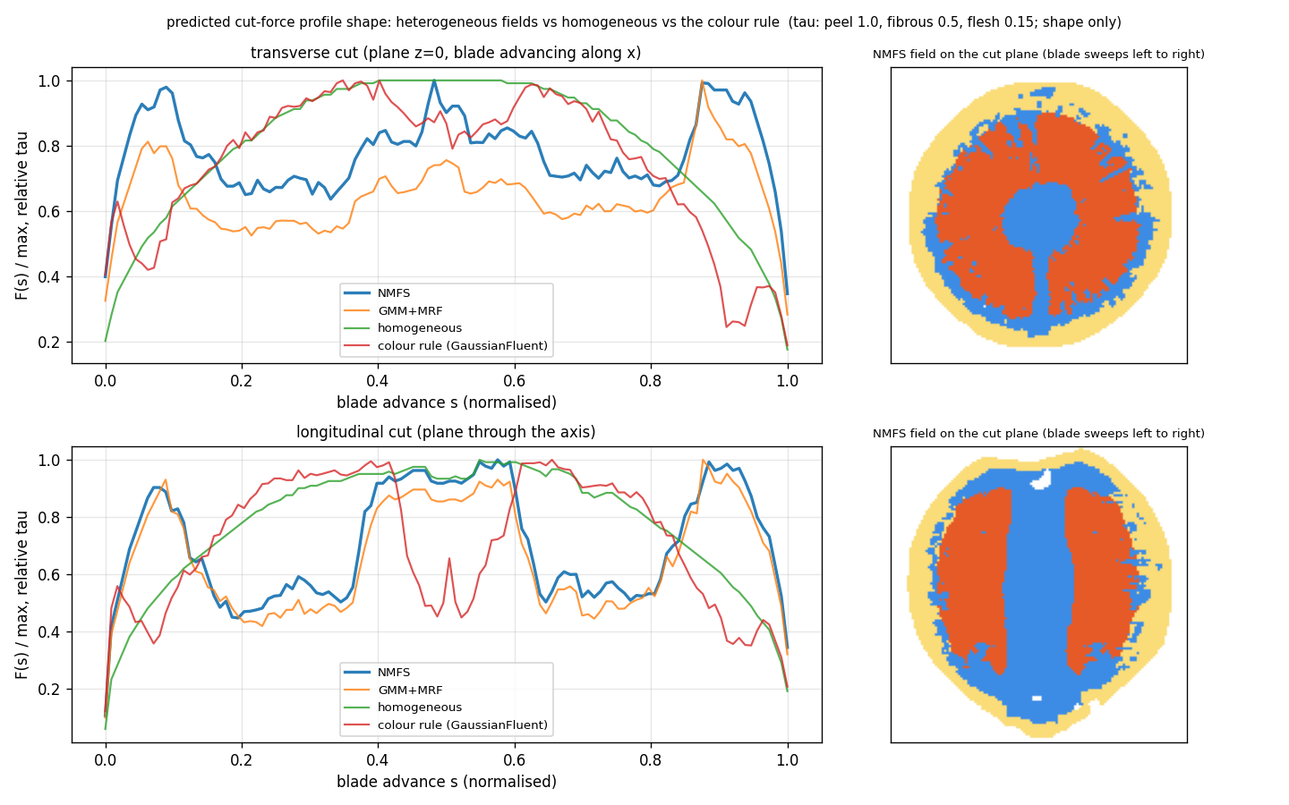
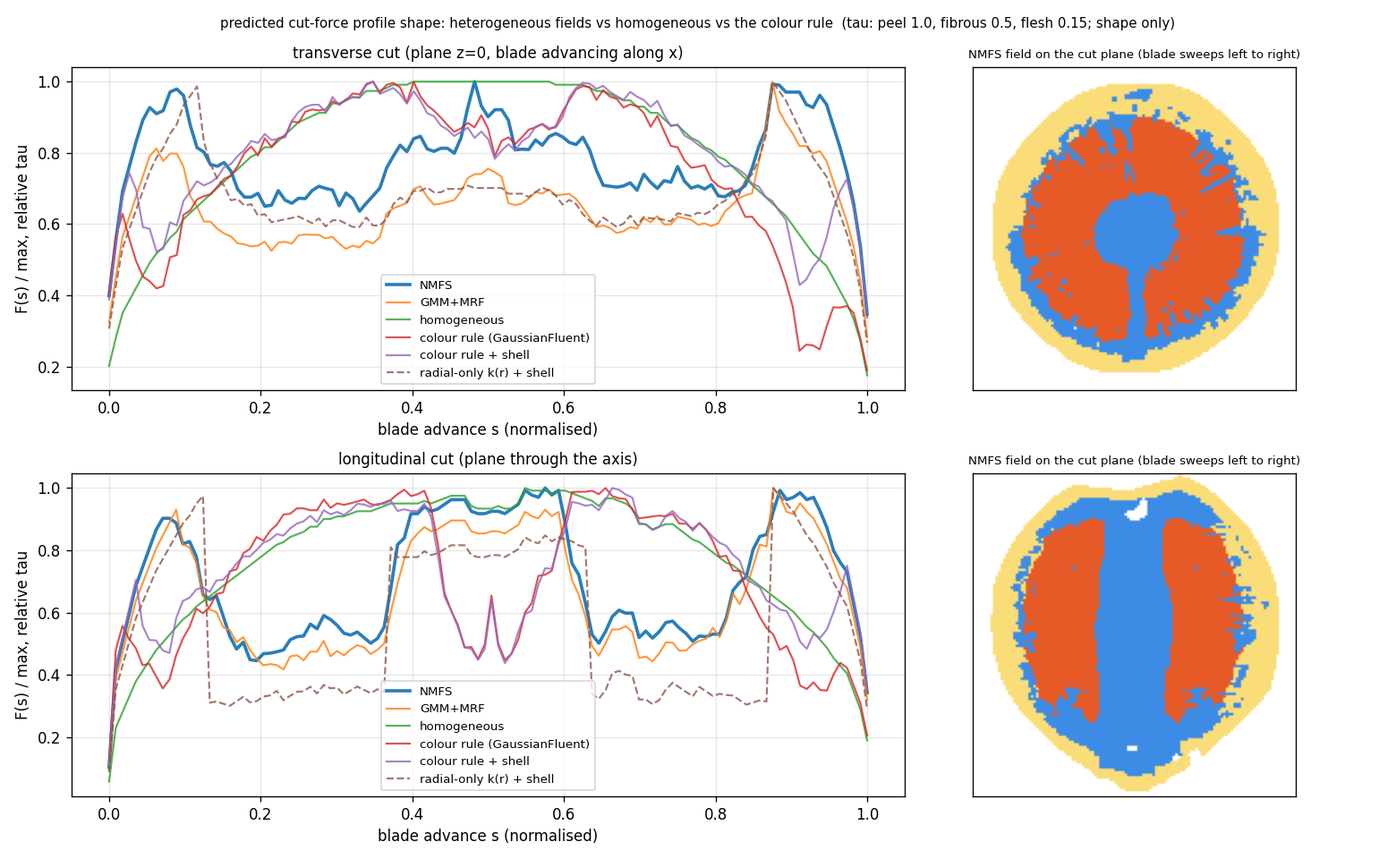
site: independent review section; colour+shell and radial-only baselines in the force comparison; wording fixes; K rule; plan sec 14

Changed region(s): [[0.0, 0.0, 0.9375, 0.9956], [0.6875, 0.5289, 0.9375, 0.9333]]

diff --git a/index.html b/index.html
@@ -38,7 +38,7 @@ a{color:var(--blue)}
 <h1>phy_inside: Heterogeneous Material Fields for Cuttable Generated Solids</h1>
 <p class="tag">從幾張切面照片，到皮、果肉、纖維各有各的物理的可切割數位孿生資產</p>
 <p class="authors">Gino (gino6178) · 2026</p>
-<p class="aff">Fruit3D Fusion → phy_inside · 所有數字為實際量測，未做的部分明寫</p>
+<p class="aff">Fruit3D Fusion → phy_inside · 所有數字來自實際執行；模擬輸出不是量測，E、ν、ρ、τ 為假設值；未做的部分明寫</p>
 <div class="btns">
 <a class="btn" href="analysis.html">完整分析（Analysis）</a>
 <a class="btn" href="https://github.com/gino6178/phy_inside">Code</a>
@@ -52,7 +52,7 @@ a{color:var(--blue)}
 
 <h2>Abstract</h2>
 <div class="abs">
-<p>生成的 3D 資產止於表面：image-to-3D 模型在外表面輸出完整 PBR 材質，內部生成方法只把體積填成顏色，物理感知的管線則給每個 part 一組均勻參數，於是<b>一顆橘子對所有現有方法而言都是單一物質</b>。我們把一個由少量切面照片合成的內部體積，變成異質、可模擬的實心體。材質清單在<b>真實切面照片</b>上學到（3+3 張，對六顆沒看過的橘子轉移一致性 0.93），經虛擬切片反投影成偽標籤；一個定義在圓柱格上的神經材質場（NMFS）在<b>沒有任何 3D 標籤</b>的情況下，以偽標籤交叉熵、兩族切面一致性、各向異性解剖先驗與夾雜物 head 學出每個 cell 的物質。每種物質綁定力學參數並<b>寫回資產的每個 voxel</b>，切割是格上的拓撲事件，碎片各自帶著材質。在同一顆橘子、同一 solver 上，異質場產生皮的進出雙峰切削力曲線，落地時整體變形較小、內部被皮屏蔽；按顏色指派材質的規則在橘子上找不到皮，因為外皮與果肉同色。</p>
+<p>生成的 3D 資產止於表面：image-to-3D 模型在外表面輸出完整 PBR 材質，內部生成方法只把體積填成顏色，物理感知的管線則給每個 part 一組均勻參數，於是<b>一顆橘子對所有現有方法而言都是單一物質</b>。我們把一個由少量切面照片合成的內部體積，變成異質、可模擬的實心體。材質清單在<b>真實切面照片</b>上學到（3+3 張，對六張 held-out 照片的分群一致性 0.93（兩個 GMM 的 Hungarian 一致性，不是對標注的準確度）），經虛擬切片反投影成偽標籤；一個定義在圓柱格上的神經材質場（NMFS）在<b>沒有任何 3D 標籤</b>的情況下，以偽標籤交叉熵、兩族切面一致性、各向異性解剖先驗與夾雜物 head 學出每個 cell 的物質。每種物質綁定力學參數並<b>寫回資產的每個 voxel</b>，切割是格上的拓撲事件，碎片各自帶著材質。在同一顆橘子、同一 solver 上，異質場產生皮的進出雙峰切削力曲線，落地時整體變形較小、內部被皮屏蔽；按顏色指派材質的規則在橘子上找不到皮，因為外皮與果肉同色。</p>
 <p style="color:var(--muted);font-size:15px">Generated 3D assets stop at the surface. We turn a volumetric interior synthesised from a few cross-section photographs into a heterogeneous, simulation-ready solid: the material inventory is learned on real cut photographs, back-projected as pseudo-labels, and a neural material field on the cylindrical lattice is trained with no 3D labels. Every voxel of the asset carries its substance, so a planar cut is a topological event and every fragment keeps its material.</p>
 </div>
 
@@ -121,7 +121,7 @@ a{color:var(--blue)}
 <div class="tabs"><button class="on" data-t="cut3">三刀六塊</button><button data-t="fall">一刀後從高處落下</button><button data-t="force">切削力曲線</button><button data-t="drop">整顆落地</button></div>
 <div id="tab-cut3" class="fig"><img src="assets/montage_cut3.gif" alt="cut3"><p class="cap">NMFS · NMFS 材質視圖 · 同質 · 顏色規則。對手的共同缺點是只有一種材質：切到哪裡力曲線都是同一條弧，切下去沒有軟硬之分。材質視圖顯示皮、果肉、纖維各自跟著碎片走。</p></div>
 <div id="tab-fall" class="fig" hidden><img src="assets/montage_fall.gif" alt="fall"><p class="cap">切成兩半後從 1.3 的高度落下：NMFS · 材質視圖 · 同質。</p></div>
-<div id="tab-force" class="fig" hidden><img src="assets/cutforce_profiles.png" alt="force"><p class="cap">四種材質場的切削力曲線形狀（相對 τ：皮 1.0、纖維 0.5、果肉 0.15）。NMFS 與 MRF 有皮的進出雙峰（0.98 / 0.85）與低的果肉平台；同質是弦長的弧；<b>顏色規則在橘子上找不到皮</b>，外皮與果肉同色，曲線幾乎就是同質的弧。這是對場的確定性積分，不依賴模擬。</p></div>
+<div id="tab-force" class="fig" hidden><img src="assets/cutforce_profiles.png" alt="force"><p class="cap">六種材質場的切削力曲線形狀（相對 τ：皮 1.0、纖維 0.5、果肉 0.15），對場的確定性積分。橫切的進出峰 / 果肉平台：NMFS 0.98 / 0.70，GMM+MRF 0.85 / 0.59，<b>radial-only k(r)+shell 0.91 / 0.62</b>，colour+shell 0.74 / 0.94，colour-only 0.63 / 0.92，同質 0.60 / 0.93。兩個誠實的讀法：(1) 顏色規則加上同一套 shell 規則後拿回一部分皮峰（0.63→0.74），但仍遠低於 NMFS，因為皮的白絡帶不是 shell；(2) <b>一個只看半徑的分層規則就重現了 NMFS 大部分的曲線形狀</b>，橘子的材質幾乎是半徑的函數，這張圖分不出「學到的材質場」與「半徑分層」。差別要在半徑不夠用的地方（囊瓣膜、西瓜籽、麵包的肉桂捲）和 3D 外部參照上證明。</p></div>
 <div id="tab-drop" class="fig" hidden><img src="assets/drop_compare.png" alt="drop"><p class="cap">整顆不切的落地（FruitNinja lattice）：NMFS 第一次落地皮的最小伸展比 0.973 對同質 0.951，內部 0.979 對 0.958；硬皮讓整顆變形少一半、彈得更快，內部被皮屏蔽。</p></div>
 <div class="note"><b>怎麼讀動畫。</b>差異是定性的。六塊碎片翻滾是混沌的：同樣物理跑兩次（第一、二欄）的碎片姿態就不同，接觸數差四倍。所以動畫不抽數字；定量的是切削力曲線（確定性）與不翻滾的落地。之前報過的碎片接觸數已撤回。</div>
 
@@ -134,6 +134,19 @@ a{color:var(--blue)}
 <tr><td>光學估計</td><td>RGB↔X、SuperMat、IntrinsicAnything</td><td>逐像素，無每類約束</td><td>同一面漫射→閃光的重渲染</td><td>濕高光被烘進 albedo</td></tr>
 </table>
 <p class="cap">可守的宣稱只有兩層：part 內的異質性（現有方法沒有一個讓 part 內部變化），以及監督來自內部觀測。不宣稱逐 voxel 材質是新的（VoMP、Pixie 都輸出逐 voxel）、不宣稱絕對模數、不宣稱輸入未標定。細節與每篇的粒度查證見<a href="analysis.html#pos">完整分析</a>。</p>
+
+<h2>Independent review <small>2026-09-05，一個沒有參與專案的 CVPR 審稿 agent 讀完頁面、分析、計畫與程式碼後的結論；已證實的部分照單全收</small></h2>
+<table>
+<tr><th>發現</th><th>證實？</th><th>處置</th></tr>
+<tr><td>顏色規則 baseline 沒有套 shell 規則，NMFS 的皮峰有 73% 來自 cell_level 規則而非學習</td><td class="ok">證實（程式碼）</td><td>加入 colour+shell 與 radial-only 兩個 baseline，重算力曲線（上方分頁）</td></tr>
+<tr><td>K 選擇碼裡有一個 K=4 的特例，與「一個程式不調參」矛盾；K 從 3 起跳測不到清單=1</td><td class="ok">證實（程式碼）</td><td>改為規則：最佳轉移，0.02 內取較大 K；KS 從 2 起</td></tr>
+<tr><td>NMFS 的三個指標循環：非信心 cell 的參照是同一個分類器；膜保留與訓練目標同一量；兩 head 共用輸出層</td><td class="ok">證實（程式碼）</td><td>新增去循環實驗：只用一族的偽標籤訓練、對另一族的分類器評估（進行中）；0.001 與膜保留改為診斷</td></tr>
+<tr><td>半徑先驗進了四次，「學到解剖」可能只是「學到 r」</td><td class="ok">證實（radial-only 曲線接近 NMFS）</td><td>如實寫在力曲線說明；差異要在非徑向結構與 3D 外部參照上證明</td></tr>
+<tr><td>0.93 是兩個 GMM 的一致性不是準確度；「所有數字為實際量測」不成立</td><td class="ok">證實</td><td>全站措辭已改</td></tr>
+<tr><td>E4（同一切面重光照）不測 3D 場；放棄荷重元換成不測 3D 的指標是策略錯誤；建議 serial-slice：一顆真橘子切 8–12 片逐片拍照對齊，就是一個真實個體的 3D 標籤堆疊，零硬體</td><td>判斷</td><td>採納 serial-slice 進計畫（E2c）；荷重元是否重新納入由作者決定</td></tr>
+<tr><td>n=1 物件、無 3D 真值、對手未真跑、消融未做</td><td class="ok">證實</td><td>與作者自己的缺口清單一致，見計畫 §14</td></tr>
+<tr><td>評分：Overall 2 / 5（weak reject），Confidence 4；最能改變評分的三件事：radial-only + 人工標注 mIoU（六物件）、一個真實個體的 3D 真值、對稱的對手</td><td>—</td><td>—</td></tr>
+</table>
 
 <h2>Limitations</h2>
 <ul>

diff --git a/analysis.html b/analysis.html
@@ -29,7 +29,7 @@ footer{margin-top:60px;color:var(--muted);font-size:13.5px;border-top:1px solid 
 <header>
 <div class="sub"><a href="index.html">← 回 project page</a></div>
 <h1>phy_inside：從切面照片到可物理互動的內部材質場 — 完整分析</h1>
-<div class="sub">專案分析　·　2026-09-04　·　程式與圖表全部來自本 repo，數字均為實際量測，未量的地方明寫</div>
+<div class="sub">專案分析　·　2026-09-04　·　程式與圖表全部來自本 repo；數字來自實際執行，模擬輸出不是量測，E、ν、ρ、τ 為假設值；未做的地方明寫</div>
 </header>
 
 <p class="lead">生成的 3D 資產只有表面：image-to-3D 模型在外表面輸出完整 PBR 材質，內部生成方法把體積填成顏色而已，物理感知的管線則每個 part 一組均勻參數。對所有現有方法而言，<b>一顆橘子是一個 part、一種物質</b>。本專案把一個由少量切面照片合成的內部體積，分解成一個異質、可模擬的材質場：皮、果肉、纖維組織各有各的力學，切開的面可重光照，刀鋒切過時的阻力隨材質變化。</p>
@@ -39,8 +39,8 @@ footer{margin-top:60px;color:var(--muted);font-size:13.5px;border-top:1px solid 
 </ol>
 
 <h2 id="abs">摘要</h2>
-<p><b>中文。</b>生成的 3D 資產止於表面：image-to-3D 模型在外表面輸出完整 PBR 材質，內部生成方法只把體積填成顏色，物理感知的管線則給每個 part 一組均勻參數，於是一顆橘子對所有現有方法而言都是單一物質。我們把一個由少量切面照片合成的內部體積，變成異質、可模擬的實心體。材質清單在<b>真實切面照片</b>上學到（三加三張，對六顆沒看過的橘子轉移一致性 0.93），經虛擬切片反投影成偽標籤；一個定義在圓柱格上的神經材質場（NMFS）在<b>沒有任何 3D 標籤</b>的情況下，以偽標籤交叉熵、兩族切面一致性、各向異性幾何先驗與夾雜物 head 學出每個 cell 的物質類別。每種物質綁定力學參數並<b>寫回資產的每個 voxel</b>，切割是格上的拓撲事件，碎片各自帶著材質。在同一顆橘子、同一 solver 上，異質場產生皮的進出雙峰切削力曲線，落地時整體變形較小、內部被皮屏蔽；按顏色指派材質的規則在橘子上找不到皮，因為外皮與果肉同色。</p>
-<p><b>English.</b> Generated 3D assets stop at the surface: image-to-3D models emit full PBR materials on the exterior, interior-generation methods fill the volume with colour and nothing else, and physics-aware pipelines assign one material per part, so that to all of them an orange is a single substance. We turn a volumetric interior synthesised from a few cross-section photographs into a heterogeneous, simulation-ready solid. The material inventory is learned on <b>real cut photographs</b> (3+3, transferring to six unseen oranges at 0.93 agreement) and back-projected into the volume as pseudo-labels; a neural material field on the cylindrical lattice (NMFS) is trained with <b>no 3D labels</b> from pseudo-label cross-entropy, cross-family consistency, an anisotropic anatomical prior and an inclusion head. Each substance is bound to mechanical parameters and <b>written into every voxel of the asset</b>, so a planar cut is a topological event on the lattice and every fragment carries its material. On the same orange and the same solver, the heterogeneous field yields the peel entry/exit spikes in the cut-force profile, and on impact a smaller overall deformation with the interior shielded by the shell; colour-based assignment finds no peel on the orange at all, because skin and flesh share a colour.</p>
+<p><b>中文。</b>生成的 3D 資產止於表面：image-to-3D 模型在外表面輸出完整 PBR 材質，內部生成方法只把體積填成顏色，物理感知的管線則給每個 part 一組均勻參數，於是一顆橘子對所有現有方法而言都是單一物質。我們把一個由少量切面照片合成的內部體積，變成異質、可模擬的實心體。材質清單在<b>真實切面照片</b>上學到（三加三張，對六張 held-out 照片的分群一致性 0.93（兩個 GMM 的 Hungarian 一致性，不是對標注的準確度）），經虛擬切片反投影成偽標籤；一個定義在圓柱格上的神經材質場（NMFS）在<b>沒有任何 3D 標籤</b>的情況下，以偽標籤交叉熵、兩族切面一致性、各向異性幾何先驗與夾雜物 head 學出每個 cell 的物質類別。每種物質綁定力學參數並<b>寫回資產的每個 voxel</b>，切割是格上的拓撲事件，碎片各自帶著材質。在同一顆橘子、同一 solver 上，異質場產生皮的進出雙峰切削力曲線，落地時整體變形較小、內部被皮屏蔽；按顏色指派材質的規則在橘子上找不到皮，因為外皮與果肉同色。</p>
+<p><b>English.</b> Generated 3D assets stop at the surface: image-to-3D models emit full PBR materials on the exterior, interior-generation methods fill the volume with colour and nothing else, and physics-aware pipelines assign one material per part, so that to all of them an orange is a single substance. We turn a volumetric interior synthesised from a few cross-section photographs into a heterogeneous, simulation-ready solid. The material inventory is learned on <b>real cut photographs</b> (3+3, with 0.93 clustering agreement on six held-out photographs (Hungarian agreement of two GMMs, not accuracy against annotation)) and back-projected into the volume as pseudo-labels; a neural material field on the cylindrical lattice (NMFS) is trained with <b>no 3D labels</b> from pseudo-label cross-entropy, cross-family consistency, an anisotropic anatomical prior and an inclusion head. Each substance is bound to mechanical parameters and <b>written into every voxel of the asset</b>, so a planar cut is a topological event on the lattice and every fragment carries its material. On the same orange and the same solver, the heterogeneous field yields the peel entry/exit spikes in the cut-force profile, and on impact a smaller overall deformation with the interior shielded by the shell; colour-based assignment finds no peel on the orange at all, because skin and flesh share a colour.</p>
 
 <h2 id="pos">1. 定位與缺口</h2>
 <p>逐篇查證最近的方法在材質上的粒度。論文的新穎性主張就落在這張表上。</p>

diff --git a/code/stage4_cutforce.py b/code/stage4_cutforce.py
@@ -36,6 +36,16 @@ km = KMeans(3, n_init=4, random_state=0).fit(lab[np.random.default_rng(0).choice
 rv = rad[occ]; order = np.argsort([float(rv[cl == k].mean()) for k in range(3)]); remap = torch.zeros(3, dtype=torch.long, device=dv); remap[torch.from_numpy(order).to(dv)] = torch.arange(3, device=dv)
 Lcol = torch.full_like(fields['NMFS'], -1); Lcol[occ] = remap[cl]; fields['colour rule (GaussianFluent)'] = Lcol
 print('colour-rule class fractions (by radius order: inner, mid, outer):', (torch.bincount(remap[cl], minlength=3).float() / occ.sum()).cpu().numpy().round(3), flush=True)
+# (b) the same colour rule PLUS our shell rule -- the symmetric baseline (the reviewer's W2)
+Lcs = Lcol.clone(); Lcs[shell] = PEEL; fields['colour rule + shell'] = Lcs
+# (c) radial-only: k as a function of r alone, thresholds from the photo classifier's radial class histogram (no features at all)
+d = np.load(NMFS); ridx = d['idx'][:, 0].astype(int); labs = d['labels'].astype(int); NRc = int(d['shape'][0])
+hist = np.zeros((NRc, 3))
+for r_, l_ in zip(ridx, labs): hist[r_, l_] += 1
+kr = torch.from_numpy(hist.argmax(1)).to(dv)                       # most frequent class at each radius
+ri_all = (rad / E * NRc - 0.5).round().long().clamp(0, NRc - 1)
+Lr = torch.full_like(fields['NMFS'], -1); Lr[occ] = kr[ri_all[occ]]; Lr[shell] = PEEL; fields['radial-only k(r) + shell'] = Lr
+print('radial-only class fractions:', (torch.bincount(Lr[occ], minlength=3).float() / occ.sum()).cpu().numpy().round(3), flush=True)
 
 def tau_of(L):
     T = torch.zeros_like(L, dtype=torch.float32)
@@ -52,13 +62,13 @@ def profile(L, cut):
 cuts = {'transverse cut (plane z=0, blade advancing along x)': ('trans', 0), 'longitudinal cut (plane through the axis)': ('long', 0)}
 res = {}
 import matplotlib; matplotlib.use('Agg'); import matplotlib.pyplot as plt
-fig, ax = plt.subplots(2, 2, figsize=(12, 7.5), gridspec_kw={'width_ratios': [1.6, 1]})
+fig, ax = plt.subplots(2, 2, figsize=(13, 8), gridspec_kw={'width_ratios': [1.7, 1]})
 cmap = np.array([[255, 255, 255], [60, 140, 230], [230, 90, 40], [250, 220, 120]], np.uint8)
 for i, (title, cut) in enumerate(cuts.items()):
     res[title] = {}
     for name, L in fields.items():
         f = profile(L, cut); s = np.nonzero(f)[0]; f = f[s.min():s.max() + 1]; f = f / f.max(); res[title][name] = f.tolist()
-        ax[i, 0].plot(np.linspace(0, 1, len(f)), f, label=name, lw=2 if name == 'NMFS' else 1.3, alpha=0.95 if name == 'NMFS' else 0.8)
+        ax[i, 0].plot(np.linspace(0, 1, len(f)), f, label=name, lw=2.2 if name == 'NMFS' else 1.3, alpha=0.95 if name == 'NMFS' else 0.8, ls='--' if 'radial' in name else '-')
     ax[i, 0].set_title(title, fontsize=10); ax[i, 0].set_xlabel('blade advance s (normalised)'); ax[i, 0].set_ylabel('F(s) / max, relative tau'); ax[i, 0].legend(fontsize=8); ax[i, 0].grid(alpha=0.3)
     AX = vol.AXD; rest = [d for d in range(3) if d != AX]; i0 = int(round(vol.c))
     Lp = fields['NMFS'].select(AX, i0) if cut[0] == 'trans' else fields['NMFS'].select(rest[1], i0)

diff --git a/code/nmfs.py b/code/nmfs.py
@@ -14,7 +14,10 @@ CONF = 0.8; R_CORE = 0.25; FIBRE, FLESH, PEEL = 0, 1, 2
 d = np.load(CELLS); idx = torch.from_numpy(d['idx'].astype(np.int64)).to(dv); NR, NPHI, NZ = [int(x) for x in d['shape']]; M = len(idx)
 Ft = torch.from_numpy(d['Ft']).to(dv).float(); Fl = torch.from_numpy(d['Fl']).to(dv).float(); Fa = torch.from_numpy(d['F']).to(dv).float()
 mu, sd = Fa.mean(0), Fa.std(0) + 1e-6; Ft = (Ft - mu) / sd; Fl = (Fl - mu) / sd; Fa = (Fa - mu) / sd; NF = Ft.shape[1]
-p = np.load(PHOTO); P0 = torch.from_numpy(p['P'].astype(np.float32)).to(dv); K = int(p['K']); lab0 = P0.argmax(1); conf = P0.max(1).values > CONF
+p = np.load(PHOTO); K = int(p['K']); PSEUDO_FAM = os.environ.get('PSEUDO_FAM', 'both')     # 'trans' | 'long' | 'both'
+_src = {'both': 'P', 'trans': 'Pt', 'long': 'Pl'}[PSEUDO_FAM]
+P0 = torch.from_numpy(p[_src].astype(np.float32)).to(dv); lab0 = P0.argmax(1); conf = P0.max(1).values > CONF
+print(f'pseudo-labels from: {PSEUDO_FAM} ({_src})', flush=True)
 rn = (idx[:, 0].float() + 0.5) / NR; zn = (idx[:, 2].float() + 0.5) / NZ * 2 - 1; phn = idx[:, 1].float() / NPHI * 2 * math.pi
 incl_t = ((lab0 == FIBRE) & (rn > R_CORE)).float()                       # thin fibrous tissue outside the core: membranes / albedo
 print(f'{M:,} cells, K={K}, confident pseudo-labels {float(conf.float().mean()):.3f}, inclusion targets {float(incl_t.mean()):.3f}', flush=True)
@@ -107,7 +110,13 @@ def seam(l):
         ch = ((g[:, 1:] != g[:, :-1]) & v[:, 1:] & v[:, :-1]).float().sum() + ((g[1:] != g[:-1]) & v[1:] & v[:-1]).float().sum(); out[name] = float(ch / v.float().sum().clamp_min(1))
     return out
 nc = ~conf
-metrics = dict(K=K, steps=STEPS, w_r=W_R, w_t=W_T,
+_other = {'trans': 'Pl', 'long': 'Pt', 'both': None}[PSEUDO_FAM]
+if _other is not None:
+    Po = torch.from_numpy(p[_other].astype(np.float32)).to(dv); oc = Po.max(1).values > CONF; ol = Po.argmax(1)
+    heldout_family = dict(family=_other, agree_nmfs=float((lab_final[oc] == ol[oc]).float().mean()), agree_mrf=float((mrf[oc] == ol[oc]).float().mean()), agree_pseudo_source=float((lab0[oc] == ol[oc]).float().mean()), n=int(oc.sum()))
+    print('HELD-OUT FAMILY', json.dumps(heldout_family), flush=True)
+else: heldout_family = None
+metrics = dict(K=K, steps=STEPS, w_r=W_R, w_t=W_T, pseudo_fam=PSEUDO_FAM, heldout_family=heldout_family, confident_fraction=float(conf.float().mean()),
     cross_disagree=dict(raw_classifier=float((Pt0 != Pl0).float().mean()), nmfs=float((lt != ll).float().mean())),
     agree_with_classifier_on_nonconfident=dict(mrf=float((mrf[nc] == lab0[nc]).float().mean()), nmfs=float((lab_final[nc] == lab0[nc]).float().mean())),
     fibre_outside_core=dict(classifier=fib_out(lab0), mrf=fib_out(mrf), nmfs_main=fib_out(lab), nmfs_with_inclusions=fib_out(lab_final)),

diff --git a/code/stage1_photo2asset.py b/code/stage1_photo2asset.py
@@ -8,7 +8,7 @@ sys.path.insert(0, os.path.dirname(os.path.abspath(__file__))); sys.path.insert(
 from feats import *; from planes import Vol
 from gmm_gpu import GaussianMixtureGPU as GaussianMixture; from scipy.optimize import linear_sum_assignment
 PHOTO, STATE, GRID, OUT = sys.argv[1:5]; os.makedirs(OUT, exist_ok=True); t0 = time.time(); rng = np.random.default_rng(0)
-KS = [3, 4, 5, 6]; STEP_T = 2; STEP_L = 4
+KS = [2, 3, 4, 5, 6]; STEP_T = 2; STEP_L = 4
 
 def load_photos(split, fam):
     out = []
@@ -46,7 +46,7 @@ for K in KS:
     r_, c_ = linear_sum_assignment(-C); agree = C[r_, c_].sum() / len(la)
     res[K] = dict(agree=float(agree), ll_hld=float(gs.score(Xh)), ll_spl=float(gs.score(Xs)))
     print(f'K={K}  spl->hld Hungarian agreement {agree:.3f}   loglik spl {gs.score(Xs):.2f} hld {gs.score(Xh):.2f}', flush=True)
-    if best is None or agree > best[1] + 0.02 or (K == 4 and agree > best[1] - 0.02): best = (K, agree, gs)   # prefer the largest K that stays stable
+    if best is None or agree > best[1] + 0.02 or (agree > best[1] - 0.02 and K > best[0]): best = (K, agree, gs)   # rule, no object-specific constant: best transfer; within 0.02 of it, prefer the larger K
 K, agree, gmm = best; print(f'chosen K={K} (agreement {agree:.3f})', flush=True)
 # order classes by mean radius
 lab_s = gmm.predict(Xs); order = np.argsort([Xs[lab_s == k, -1].mean() if (lab_s == k).any() else 9 for k in range(K)]); remap = np.zeros(K, int); remap[order] = np.arange(K)

diff --git a/notes/next-paper-plan.md b/notes/next-paper-plan.md
@@ -64,9 +64,10 @@ the watermelon, and its manual per-colour assignment is the natural strongest ba
 
 Checked 2026-09-04. Three facts decide how the comparison must be built.
 
-1. **No code is released.** The GitHub repo is the project page only. So the baseline is a faithful
-   re-implementation of their material rule on *our* geometry and *our* solver. That is the
-   cleaner experiment anyway: the only thing that differs is the material field.
+1. **Code and assets are released** (github.com/HB-pencil-zero/GaussianFluent: CD-MPM solver, interior filling,
+   gs_simulation; Hugging Face: 22 pretrained 3DGS assets, 32 configs incl. watermelon, jelly, trained_gs_fruitninja).
+   The baseline can be run with their solver and rule on their assets, and their rule re-implemented on our
+   lattice so only the material field differs. Do both.
 2. **They have no cutting experiment.** Slicing appears in a list of capabilities; there is no
    knife model, no cutting section and no cutting metric. Their evaluation is CLIP score and a
    user study. So we are not beating them on their benchmark -- **we introduce the evaluation
@@ -491,3 +492,24 @@ are chaotic, Warp's atomic adds are nondeterministic, and one torch subsample wa
 SEED env). The earlier 6,438 vs 16,113 (FruitNinja lattice) is inside this noise. Any behavioural
 metric on cut pieces needs several seeds with mean +/- std, or the non-tumbling intact-drop
 scenario. The cut-force profile (a deterministic integral over the field) is unaffected.
+
+## 14. Independent review (2026-09-05) and what it changed
+
+Confirmed from code: (1) colour-rule baseline lacked the shell rule -> added `colour rule + shell` and
+`radial-only k(r) + shell` to the cut-force comparison. Result: radial-only reproduces most of NMFS's
+profile (entry spike 0.91 vs 0.98, plateau 0.62 vs 0.70) -- on the orange the material is close to a
+function of r, and the force figure cannot separate a learned field from radial layering. (2) K
+selection had a K=4 special case -> replaced by a rule (best transfer, larger K within 0.02), KS from 2.
+(3) NMFS metrics are circular (reference = the same classifier; inclusion metric = training target;
+shared head for L_cross) -> de-circularised test added: PSEUDO_FAM=trans|long trains on one family's
+pseudo-labels and evaluates against the other family's confident classifier; 0.001 and membrane
+retention become diagnostics. (4) Wording: "measured" -> "executed", 0.93 is clustering agreement.
+
+Adopted from the review: **E2c serial-slice ground truth** -- cut one real orange into 8-12 transverse
+slices, photograph each, align, classify -> a 3D label stack of one real individual; report 3D mIoU and
+membrane count/spacing against it. Zero hardware, one hour. This is the cheapest external 3D reference
+and replaces the single oblique photograph as the main structural test.
+Open decision for the author: the review argues the load cell was the cheapest 3D validation of the
+mechanics and that E4 (same-face relighting) does not test the 3D field.
+Review score: overall 2/5, confidence 4. Minimum set to change it: radial-only + annotated mIoU on six
+objects; a real-individual 3D reference; symmetric competitors actually run.
